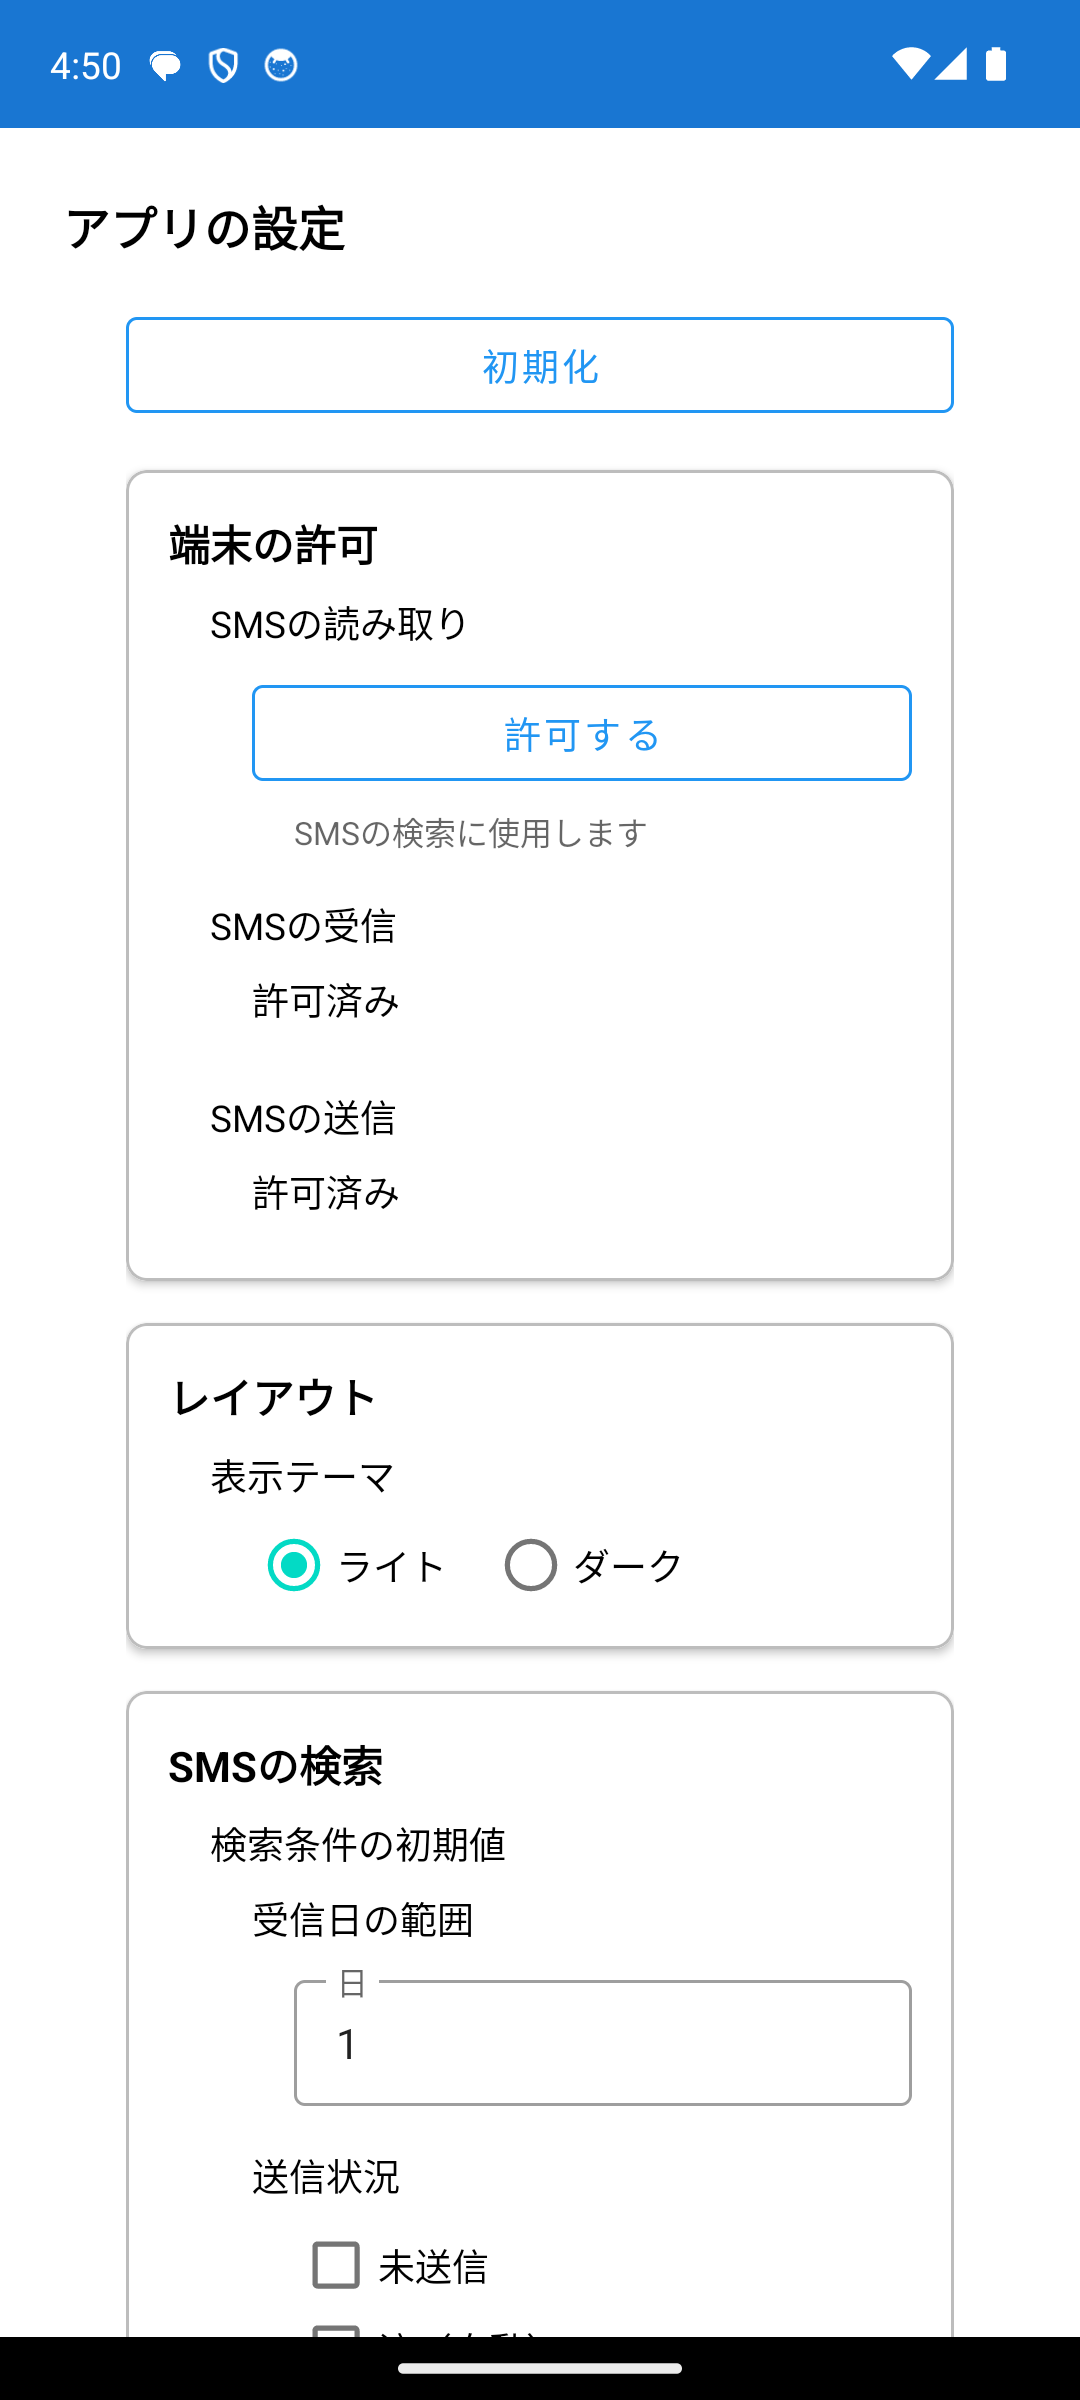
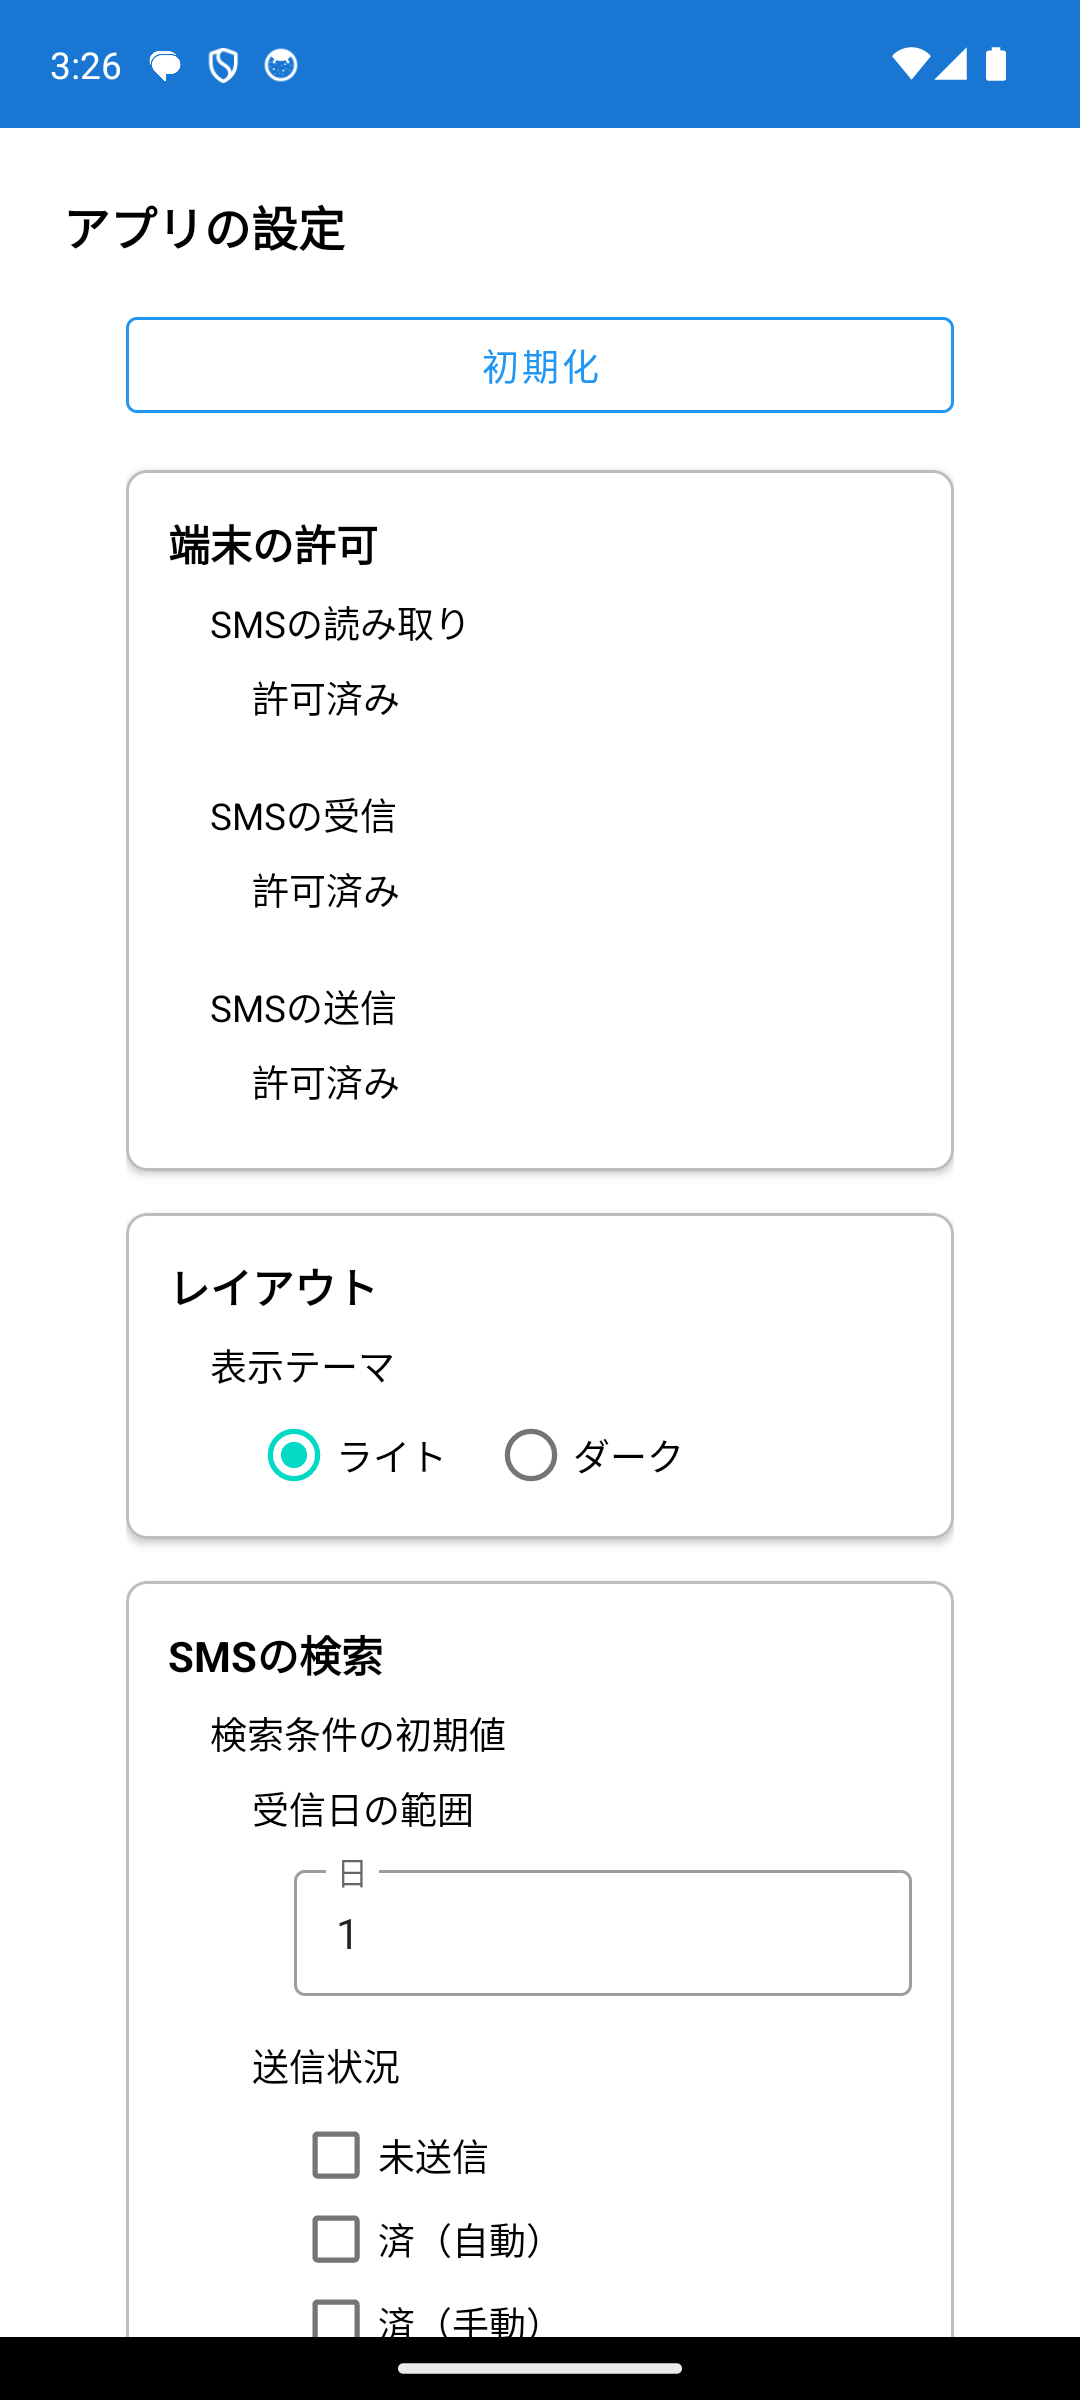
md

diff --git a/tool/smstokintone/doc/05_リリース/操作マニュアル.md b/tool/smstokintone/doc/05_リリース/操作マニュアル.md
@@ -132,69 +132,64 @@
      <img src="screenshots/top_app_settings_tap_01.png" alt="トップ画面" >
    </p>
 
-2. 「端末の許可」の「許可する（SMSの読み取り）」を押し、端末の許可を与えます。
+2. 「端末の許可」の項目の、「許可する」を押します。
 
    <p float="left">
-     <img src="screenshots/app_settings_read_permission_allow_01.png" alt="端末の許可（SMSの読み取り）" >
-     <img src="screenshots/app_settings_read_permission_allow_02.png" alt="端末の許可（SMSの読み取り）" >
+     <img src="screenshots/app_settings_permission_allow_01.png" alt="端末の許可" >
+     <img src="screenshots/app_settings_permission_allow_02.png" alt="端末の許可" >
    </p>
 
-3. 「端末の許可」の「許可する（SMSの受信）」を押し、端末の許可を与えます。
+3. 「レイアウト」の項目を、運用に合わせて設定します。
 
    <p float="left">
-     <img src="screenshots/app_settings_receive_permission_allow_01.png" alt="端末の許可（SMSの受信）" >
-     <img src="screenshots/app_settings_receive_permission_allow_02.png" alt="端末の許可（SMSの受信）" >
+     <img src="screenshots/app_settings_layout_select.png" alt="SMSの送信モード" >
    </p>
 
-4. 「端末の許可」の「許可する（SMSの送信）」を押し、端末の許可を与えます。
-
-   <p float="left">
-     <img src="screenshots/app_settings_send_permission_allow_01.png" alt="端末の許可（SMSの送信）" >
-     <img src="screenshots/app_settings_send_permission_allow_02.png" alt="端末の許可（SMSの送信）" >
-   </p>
-
-5. 「SMSの送信モード」の項目を、運用に合わせて設定します。
+4. 「SMSの送信モード」の項目を、運用に合わせて設定します。
 
    <p float="left">
      <img src="screenshots/app_settings_send_mode_select_01.png" alt="SMSの送信モード" >
    </p>
 
-6. 「SMSの返信モード」の項目を、運用に合わせて設定します。
+5. 「SMSの返信モード」の項目を、運用に合わせて設定します。
 
    <p float="left">
      <img src="screenshots/app_settings_reply_mode_select_01.png" alt="SMSの返信モード" >
    </p>
 
-7. 「SMSの情報抽出」の項目を、運用に合わせて設定します。
+6. 「SMSの情報抽出」の項目を、運用に合わせて設定します。
 
    <p float="left">
      <img src="screenshots/app_settings_extraction_select_01.png" alt="SMSの情報抽出" >
    </p>
 
-8. 「SMSの引継ぎ」の項目を、運用に合わせて設定します。
+7. 「SMSの引継ぎ」の項目を、運用に合わせて設定します。
 
    <p float="left">
      <img src="screenshots/app_settings_continuation_select_01.png" alt="SMSの引継ぎ" >
    </p>
 
-9. 「ログ」の項目を、運用に合わせて設定します。
+8. 「ログ」の項目を、運用に合わせて設定します。
 
    <p float="left">
      <img src="screenshots/app_settings_log_select_01.png" alt="ログ" >
    </p>
 
+9. 初期状態に戻す場合は、「初期化」を押します。
+
+   <p float="left">
+     <img src="screenshots/app_settings_initialize_01.png" alt="ログ" >
+   </p>
 
 > 注意
-> - 項目を変えると、すぐに保存されます。
 > - 「SMSの読み取り」「SMSの受信」「SMSの送信」のいずれかが許可されていないと、その権限を使う機能は動きません。
-> - 数値の入力欄は、1 以上の整数を入力したときだけ保存します。
 
 <div class="pagebreak"></div>
 
 ### 4.2 送信先の設定
 
 　kintone への接続先と、SMS の振り分けを設定します。<br>
-　送信先は 1 件以上必要です。
+　「設定を保存」を押すまで保存されません。
 
 <p float="left">
   <img src="screenshots/send_settings_screen_open_01.png" alt="送信先の設定" >
@@ -288,14 +283,14 @@
 
 
 > 注意
-> - 送信先は、「設定を保存」を押すまで保存されません。
 > - 「テスト送信」は、テストの SMS を実際に kintone へ登録します。
 
 <div class="pagebreak"></div>
 
 ### 4.3 引継ぎ内容の設定
 
-　同じ送信元の以前の会社名と氏名を、送信元ごとの一覧で確認し、編集します。
+　同じ送信元の以前の会社名と氏名を、送信元ごとの一覧で確認し、編集します。<br>
+　「設定を保存」を押すまで保存されません。
 
 <p float="left">
   <img src="screenshots/continuation_info_settings_screen_open_01.png" alt="引継ぎ内容の設定" >
